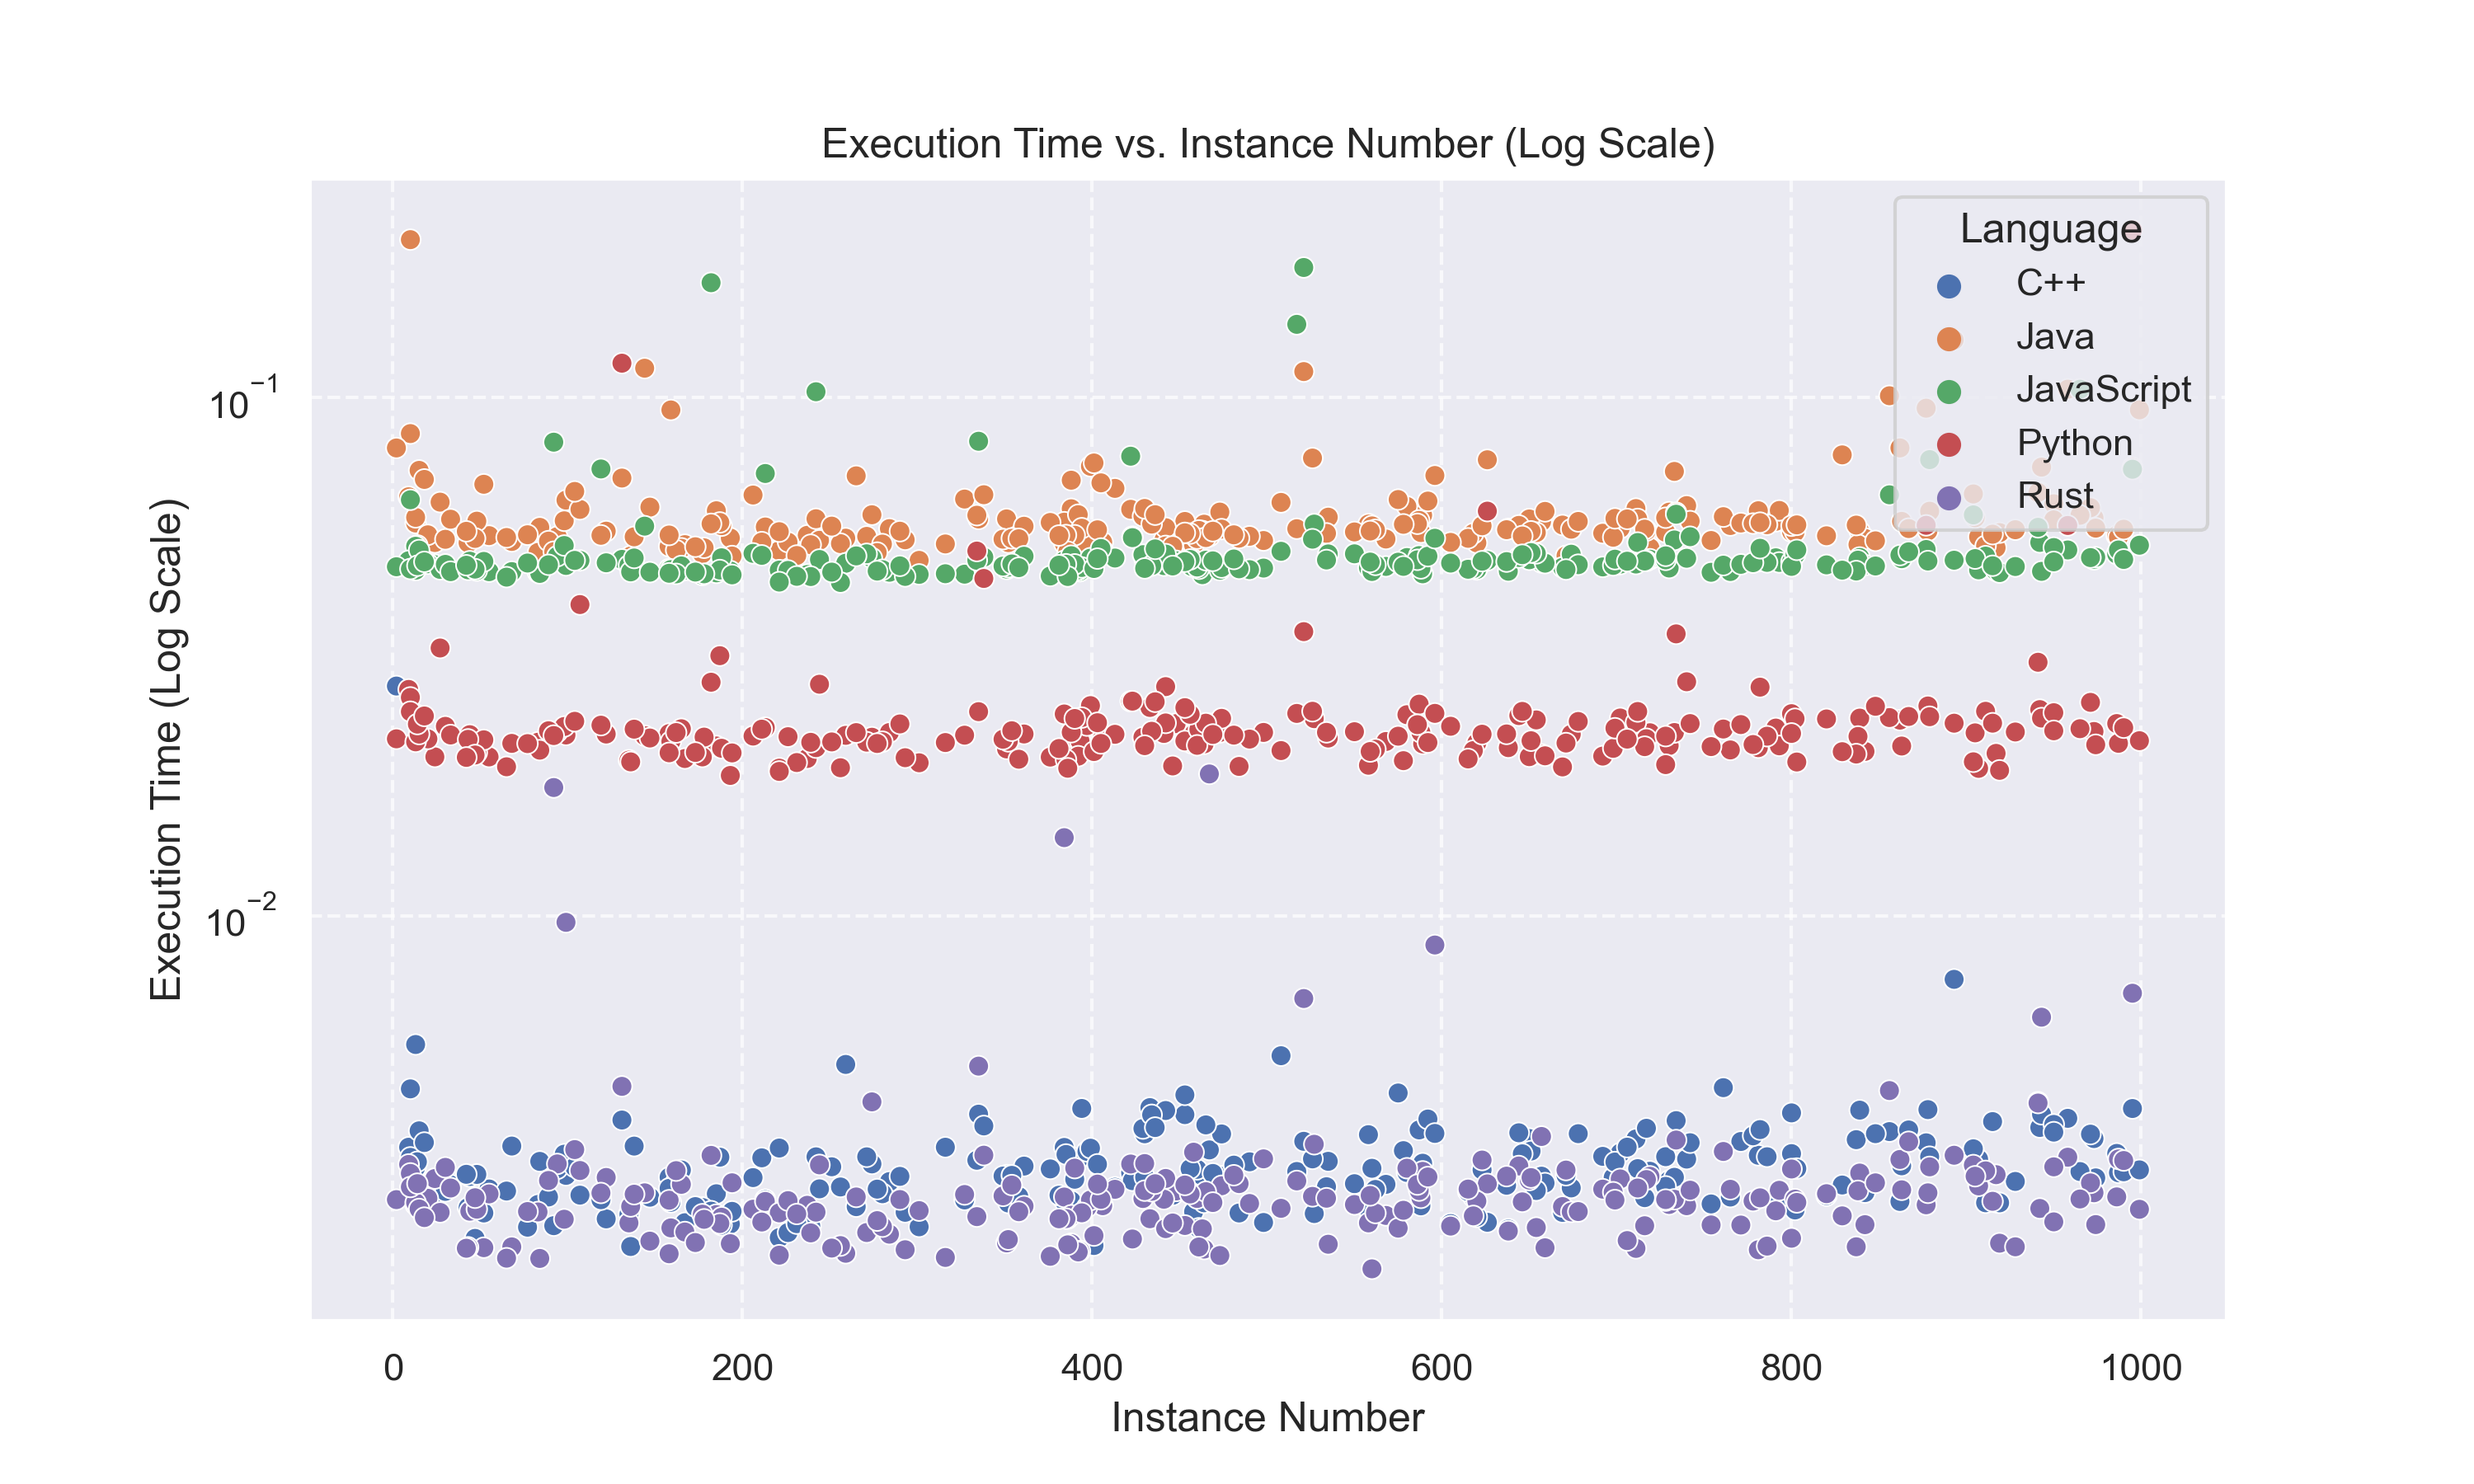
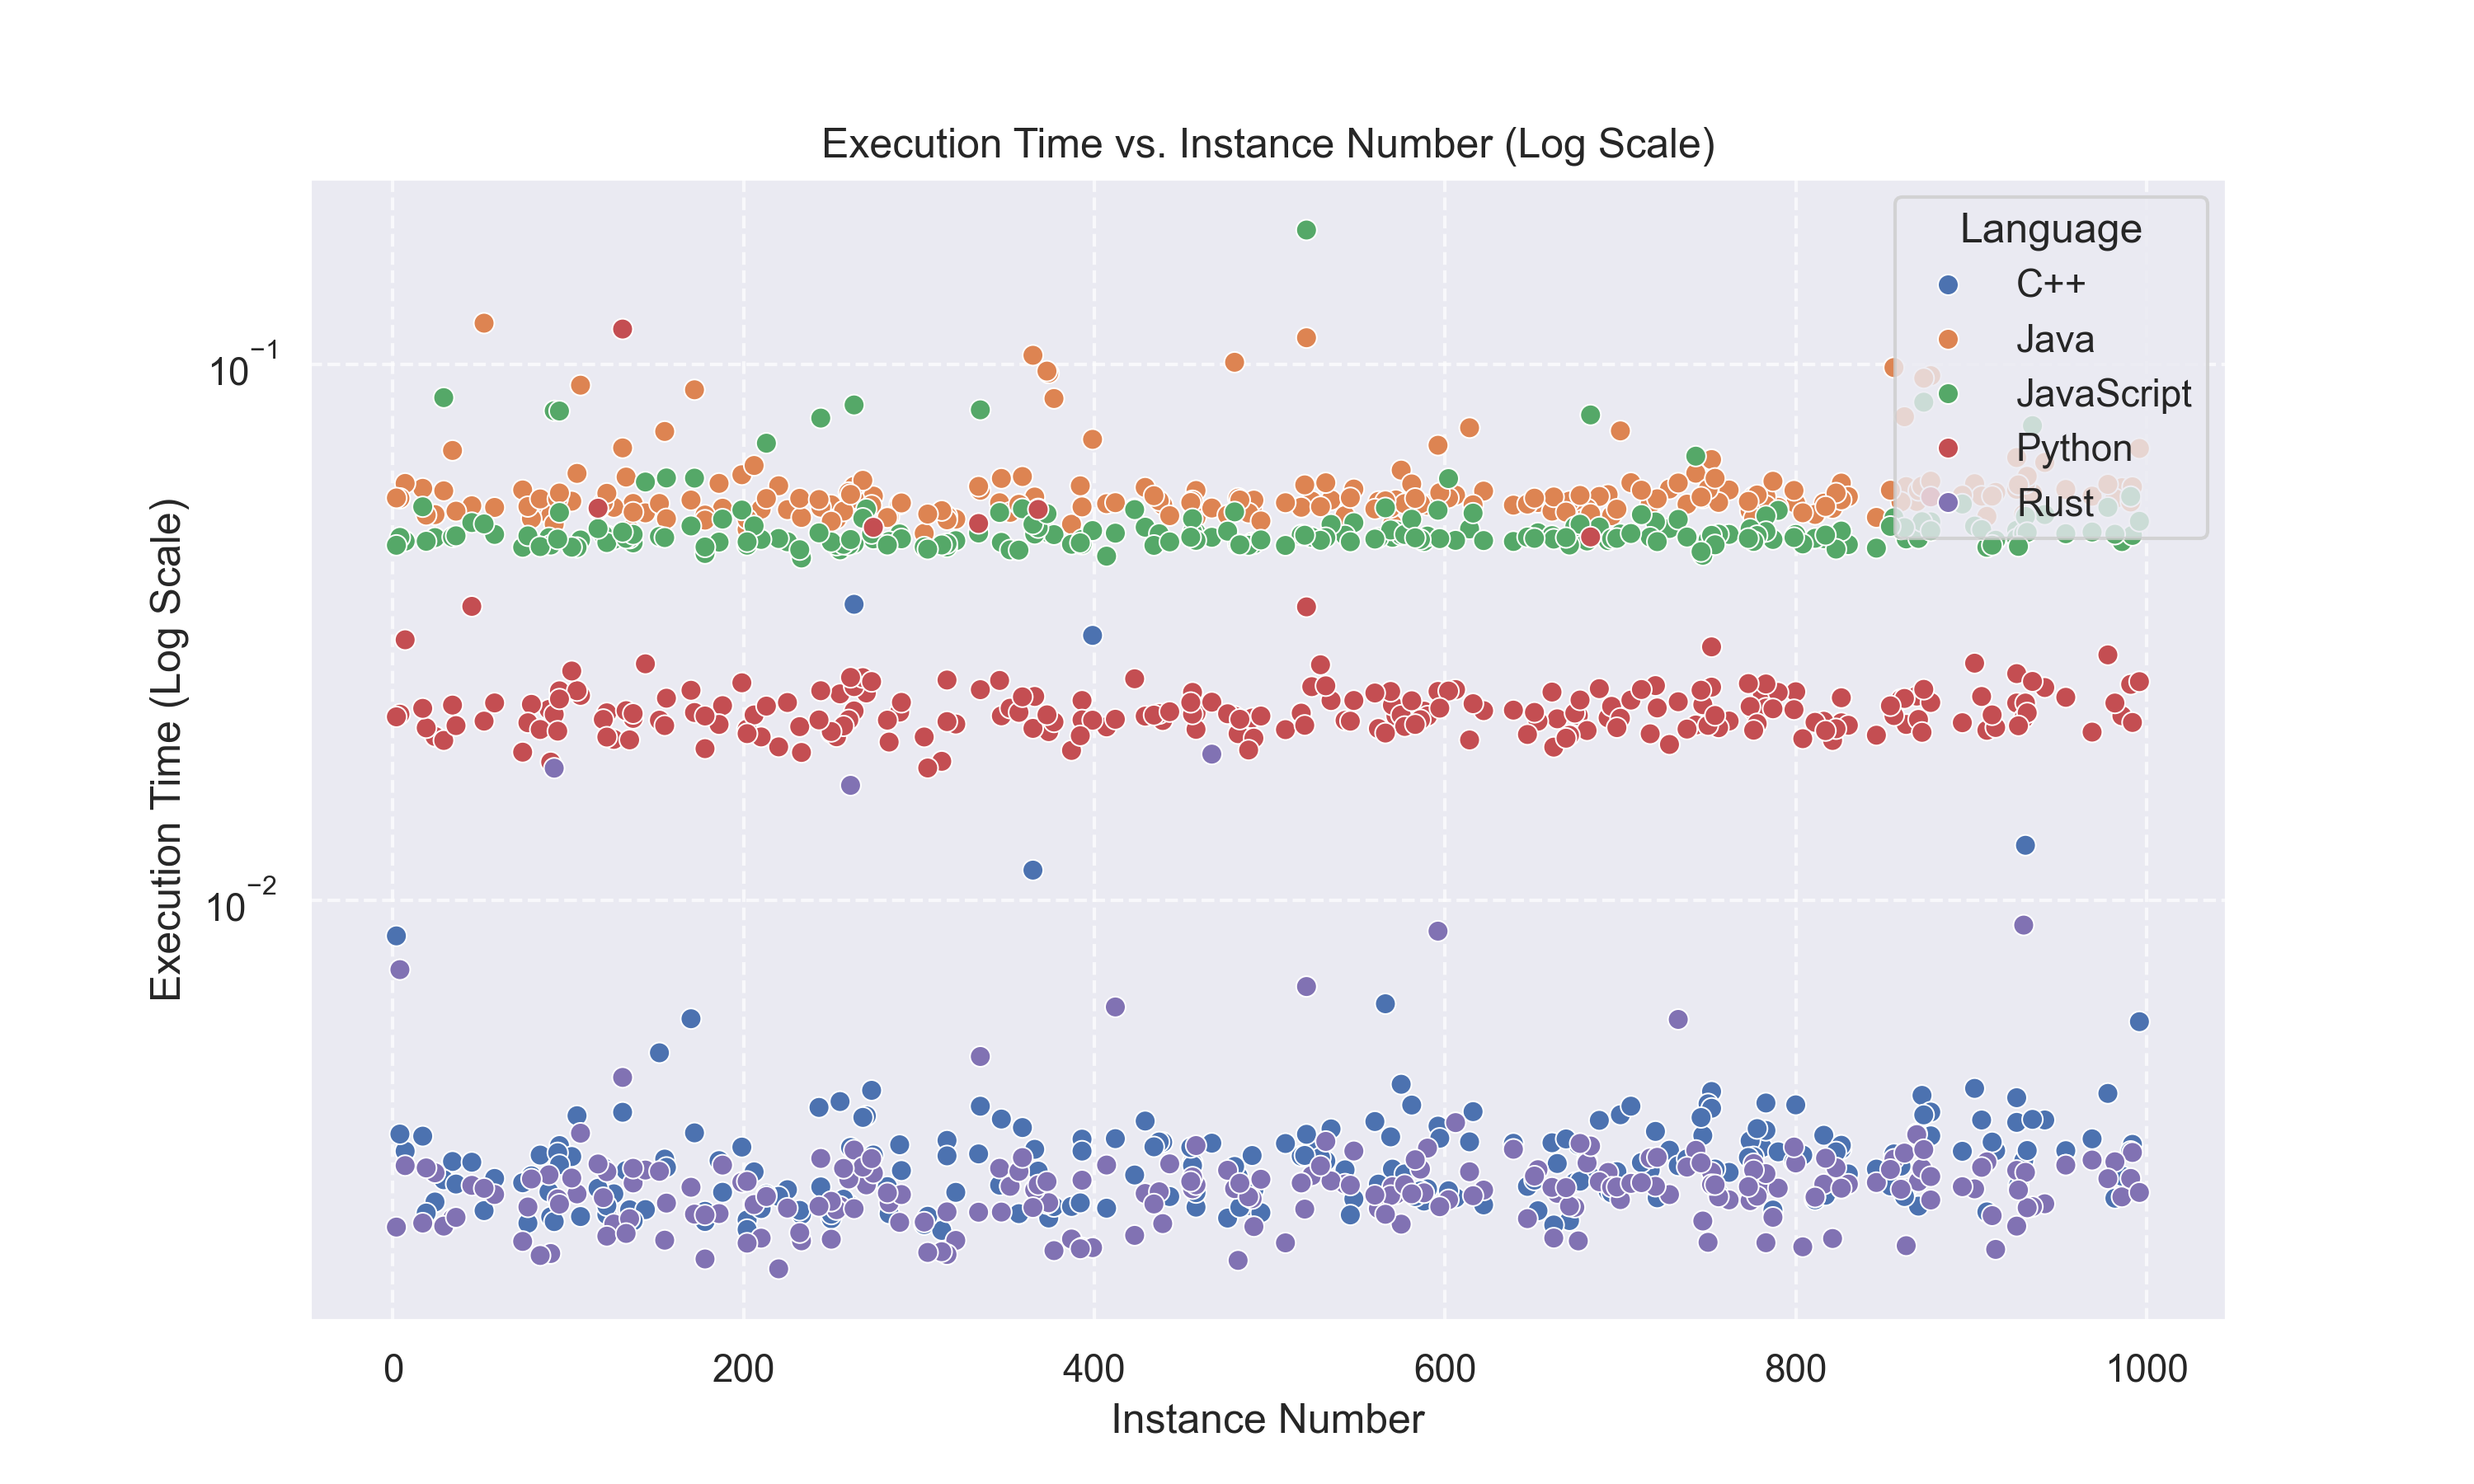
Moved Anomaly detection to _extended and added scatterplot to show anomalies

diff --git a/stat_test_extended.py b/stat_test_extended.py
@@ -25,7 +25,73 @@ def main(in_directory):
     os.makedirs(plots_dir, exist_ok=True)
     
     df = pd.read_csv(in_directory)
-    #df = df[df['time'] > 0.0]
+  
+    # Data cleaning
+    df = df[df['time'] > 0.0]
+    # Heuristic == 0
+    df_heuristic_0 = df[df['heuristic'] == 0]
+    df_heuristic_0_pivot = df_heuristic_0.pivot(index='instance_num', columns='language', values='time')
+    df_heuristic_0_pivot = df_heuristic_0_pivot.dropna()
+    model_0 = LocalOutlierFactor(n_neighbors=20)
+    y_heuristic_0 = model_0.fit_predict(df_heuristic_0_pivot.values)
+    df_heuristic_0_pivot['lof_outlier'] = y_heuristic_0
+    df_heuristic_0_pivot['is_anomaly'] = df_heuristic_0_pivot['lof_outlier'] == -1
+
+    # Heuristic == 1
+    df_heuristic_1 = df[df['heuristic'] == 1]
+    df_heuristic_1_pivot = df_heuristic_1.pivot(index='instance_num', columns='language', values='time')
+    df_heuristic_1_pivot = df_heuristic_1_pivot.dropna()
+    model_1 = LocalOutlierFactor(n_neighbors=20)
+    y_heuristic_1 = model_1.fit_predict(df_heuristic_1_pivot.values)
+    df_heuristic_1_pivot['lof_outlier'] = y_heuristic_1
+    df_heuristic_1_pivot['is_anomaly'] = df_heuristic_1_pivot['lof_outlier'] == -1
+
+    # Combine the results
+    df_cleaned = pd.concat([df_heuristic_0_pivot, df_heuristic_1_pivot])
+    df_cleaned = df_cleaned.reset_index()
+    
+    # Melt data for visualization
+    df_cleaned_melted = df_cleaned.melt(
+        id_vars=['instance_num', 'is_anomaly'], 
+        value_vars=[col for col in df_cleaned.columns if col not in ['lof_outlier', 'is_anomaly', 'instance_num']],
+        var_name='language', 
+        value_name='time'
+    )
+    df = df_cleaned_melted.merge(
+        df[['instance_num', 'heuristic']].drop_duplicates(), 
+        on='instance_num', 
+        how='left'
+    )
+
+    # Plot all points, highlighting anomalies
+    seaborn.set()
+    plt.figure(figsize=(12, 8))
+
+    # Scatterplot for inliers and outliers
+    seaborn.scatterplot(
+        data=df, 
+        x='instance_num', 
+        y='time', 
+        hue='language', 
+        style='is_anomaly', 
+        markers={False: 'o', True: 'X'}, 
+        palette='tab10',
+        s=60,  # Marker size
+        edgecolor='k',  # Black edge for points
+        linewidth=0.5
+    )
+
+    # Log scale for better visualization
+    plt.yscale("log")
+    plt.title("Execution Time vs. Instance Number (Log Scale)")
+    plt.xlabel("Instance Number")
+    plt.ylabel("Execution Time (Log Scale)")
+    plt.legend(title="Language", loc='upper right', bbox_to_anchor=(1.05, 1))
+    plt.grid(linestyle='--', alpha=0.7)
+    
+    # Save plot
+    plt.savefig(os.path.join(plots_dir, 'exec_time_vs_instance_num_with_anomalies.png'), dpi=300)
+    plt.close()
     
     # Combined histogram for all languages
     languages = df['language'].unique()
